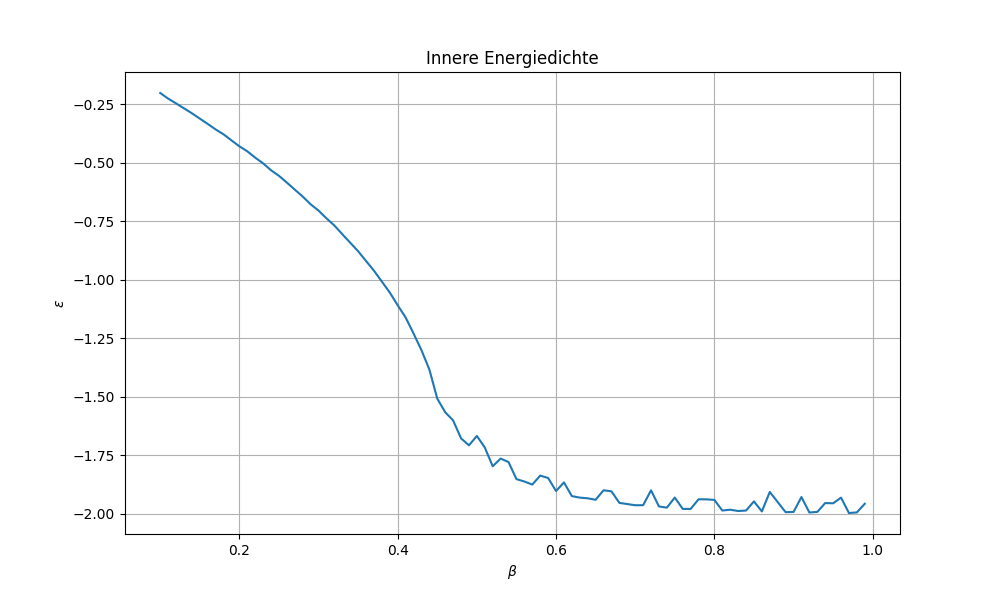
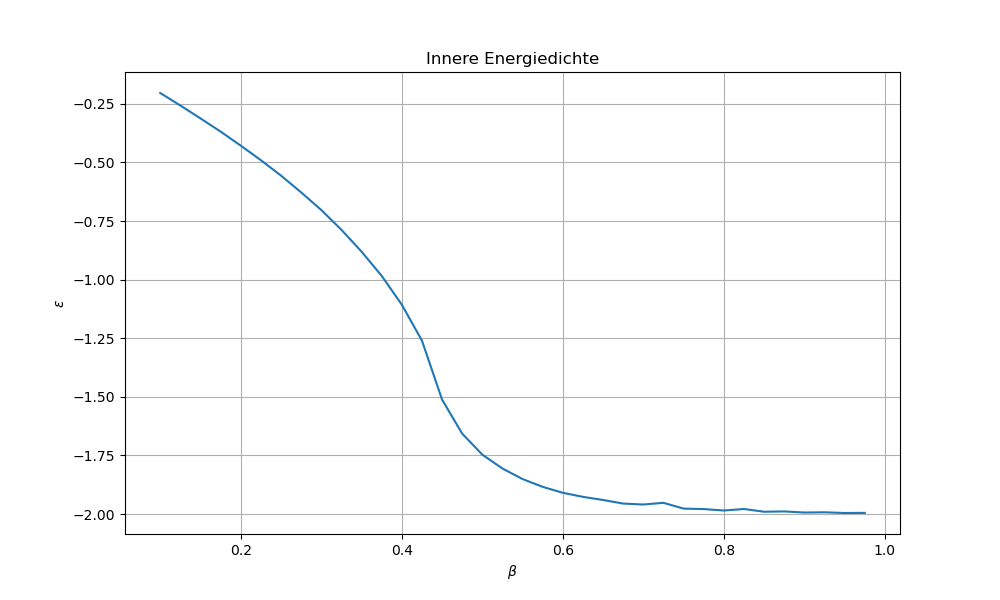
Plotted 3a

diff --git a/Thema4_Ising_Modell/A3_C++/A3a.cpp b/Thema4_Ising_Modell/A3_C++/A3a.cpp
@@ -2,15 +2,20 @@
 #include <vector>
 #include <random>
 #include <fstream>
+#include <tuple>
+#include <iostream>
+#include <cmath>
+
+using namespace std;
 
 using namespace std;
 
 #define L 128                  // Seitenlänge des Gitters
 #define N_BETA 100             // Anzahl der beta-Werte
-#define NR_OBS 100             // Anzahl der Messungen pro beta
+#define NR_OBS 200             // Anzahl der Messungen pro beta
 #define N_TRY 5                // Anzahl der Versuche pro Spin bei jedem Update
 #define N_THERMALIZING 1000    // Anzahl der Updates zur Thermalisation
-#define N_A 100                // Anzahl der Updates zwischen den Messungen (Dekorrelation)
+#define N_A 10000                // Anzahl der Updates zwischen den Messungen (Dekorrelation)
 #define J 1.0                  // Kopplungskonstante
 #define h 0.0                  // externes Magnetfeld
 #define STEP_SIZE 0.025          // Schrittweite für beta
@@ -134,10 +139,7 @@ void multihit(int** spins, double beta) {
 
 
 
-#include <iostream>
-#include <cmath>
 
-using namespace std;
 
 tuple<double, double, double> compute_observables(int** spins) {
     double M = 0.0;
@@ -178,7 +180,7 @@ vector<double> run_metropolis(double beta){
 
     // Measurement
     for (int i = 0; i < NR_OBS; ++i) {
-        for (int j = 0; j < N_A; ++j) {
+        for (int j = 0; j < (N_A*beta + 10); ++j) {
             multihit(spins, beta);
         }
 
